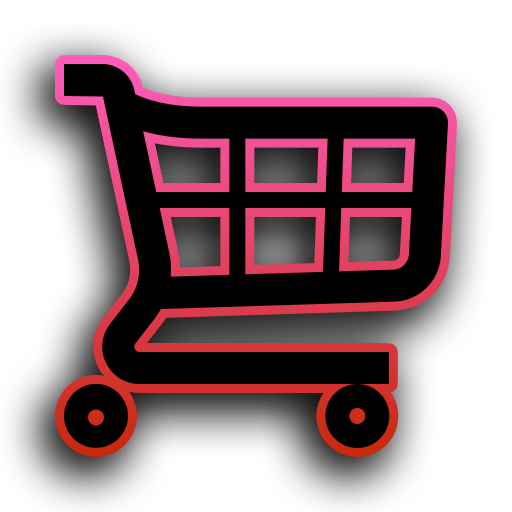
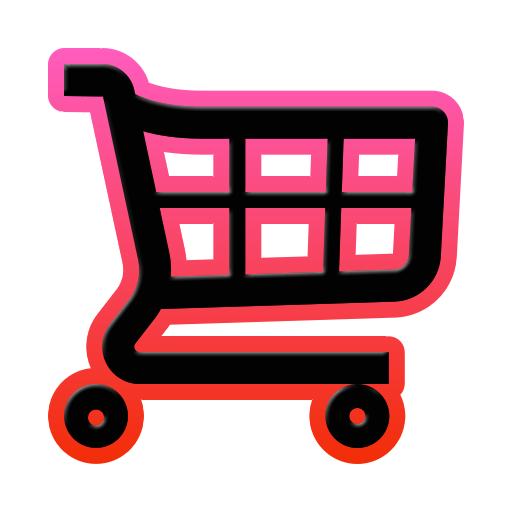
add: estilado general

diff --git a/views/index.html b/views/index.html
@@ -6,9 +6,12 @@
     <meta name="viewport" content="width=device-width, initial-scale=1.0">
     <title>RappiGames</title>
 
+    <link rel="preconnect" href="https://fonts.googleapis.com">
+    <link rel="preconnect" href="https://fonts.gstatic.com" crossorigin>
+    <link href="https://fonts.googleapis.com/css2?family=Tiny5+Duo:ital,wght@0,100..900;1,100..900&display=swap" rel="stylesheet">
 
     <link rel="stylesheet" href="css/styles.css">
-    
+
     <link rel="icon" type="image/png" href="../favicon/favicon-96x96.png" sizes="96x96" />
     <link rel="icon" type="image/svg+xml" href="/favicon/favicon.svg" />
     <link rel="shortcut icon" href="/favicon/favicon.ico" />
@@ -22,32 +25,38 @@
         <section class="section-logo">
 
             <div>
-                
+
                 <a href="./index.html">
-                    <img src="img/logo-2026.png" alt="logo-rapigames" width="200">
+                    <img id="logo-rappigames" src="img/logo-2026.png" alt="logo-rappigames" width="150">
                 </a>
 
             </div>
 
             <div>
 
-                <h2>RappiGames</h2>
-                <h6>by Franco L. & Nahuel M.</h4>
-                
+                <h2 class="texto-gradiente">RappiGames</h2>
+                <h6 class="texto-gradiente">by Franco L. & Nahuel M.</h4>
+
             </div>
 
         </section>
-        
+
         <nav>
-            <p><a href="./login.html">Panel administrador</a></p>
+
+            <p>
+                <a id="parrafo-admin-nav" href="./login.html">Admin</a>
+            </p>
 
             <div id="contenedor-carrito">
+
                 <a href="./carrito.html">
-                    <img src="./img/cart.png" alt="carrito">
+                    <img id="carrito-img" src="./img/cart.png" alt="carrito">
                 </a>
+
             </div>
 
         </nav>
+
     </header>
 
     <main>
@@ -66,16 +75,16 @@
         //  Traer todos los productos
         const contenedorProductos = document.getElementById("contenedor-productos");
 
-        
-        
+
+
         async function buscarProductos() {
-            try{
+            try {
                 // Hago la request a la api para obtener todos los productos.
                 const urlBase = "http://localhost:3000"
                 const response = await fetch(`${urlBase}/api/productos`);
                 const data = await response.json();
 
-                if(!response.ok){
+                if (!response.ok) {
                     return mostrarError(data.mensaje);
                     console.error(data.mensaje);
                 }
@@ -89,7 +98,7 @@
         }
 
 
-        function renderizarProductos(productos){
+        function renderizarProductos(productos) {
             let productosHTML = "";
             console.table(productos);
             productos.forEach(producto => {
@@ -100,11 +109,11 @@
                                                 <button class="btn-agregar-prod-carrito" type="button">Agregar al carrito</button>
                                             </div>`;
             })
-            
+
             contenedorProductos.innerHTML = productosHTML;
         }
 
-        function mostrarError(error){
+        function mostrarError(error) {
             console.log(error);
             contenedorProductos.innerHTML = `<p>${error}</p>`;
         }

diff --git a/views/css/styles.css b/views/css/styles.css
@@ -1,3 +1,15 @@
+/* Ajustamos el body */
+body {
+    margin: 0px;
+    background-color: beige;
+    font-family: tiny5 duo;
+}
+
+/* Logo rappigames */
+#logo-rappigames {
+    width: 200px;
+}
+
 /* Primera seccion donde esta el logo, el nombre de la empresa y sus integrantes. */
 .section-logo {
     display: flex;
@@ -8,19 +20,21 @@
     margin-top: 60px;
     display: flex;
     flex-direction: column;
-    align-items: self-end;
 }
 
 /* El h2 especifico del primer section */
 .section-logo h2 {
     margin-bottom: 0;
+    text-shadow: -1px 3px 3px rgba(-11, -11, -37, 0.4);
 }
 
 /* El h6 especifico del primer section */
 .section-logo h6 {
-    width: 150px;
+    width: 155px;
     margin-top: 0;
-    font-size: 12px;
+    font-size: 10px;
+    margin-left: 64px;
+    text-shadow: -1px 3px 3px rgba(-11, -11, -37, 0.4);
 }
 
 /* Form pantalla bienvenida */
@@ -60,4 +74,39 @@ form {
 
 #submit-continuar::active {
     transform: scale(0.95);
+}
+
+/* Aplicamos un gradiente como fondo y lo recortamos a la forma del texto para el titulo de la empresa */
+
+.texto-gradiente {
+  background: linear-gradient(90deg, #ff0080, #7928ca, #2afadf);
+  -webkit-background-clip: text;
+  background-clip: text;
+  -webkit-text-fill-color: transparent;
+  color: transparent;
+}
+
+/* Ajustamos el NAV */
+nav {
+    display: flex;
+    padding: 50px;
+}
+
+/* Ajustamos el header */
+header {
+    display: flex;
+    justify-content: space-around;
+}
+
+/* Img carrito */
+#carrito-img {
+    width: 80px;
+    filter: drop-shadow(0 2px 4px rgba(0, 0, 0, 0.3));
+}
+
+/* Parrafo admin nav */
+#parrafo-admin-nav {
+    text-decoration: none;
+    color: #641501;
+    font-size: 40px;
 }
